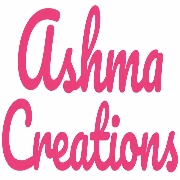
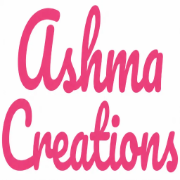
chnages

diff --git a/resources/views/layouts/app.blade.php b/resources/views/layouts/app.blade.php
@@ -93,11 +93,13 @@
     <meta name="twitter:site" content="{{ $twitter['site'] ?? '@ashma_creations07' }}">
 
     <!-- Favicon and App Icons -->
-    <link rel="icon" href="{{ url('/favicon.ico') }}" type="image/x-icon">
+    <link rel="icon"  sizes="32x32" href="{{ url('/favicon-32x32.png') }}" type="image/png">
+    <link rel="icon"  sizes="16x16" href="{{ url('/favicon-16x16.png') }}" type="image/png">
     <link rel="shortcut icon" href="{{ url('/favicon.ico') }}" type="image/x-icon">
     <link rel="apple-touch-icon" sizes="180x180" href="{{ url('/images/apple-touch-icon.png') }}">
     <meta name="apple-mobile-web-app-capable" content="yes">
     <meta name="mobile-web-app-capable" content="yes">
+    <link rel="manifest" href="{{ asset('manifest.json') }}" crossorigin="anonymous">
 
    
     @stack('styles')